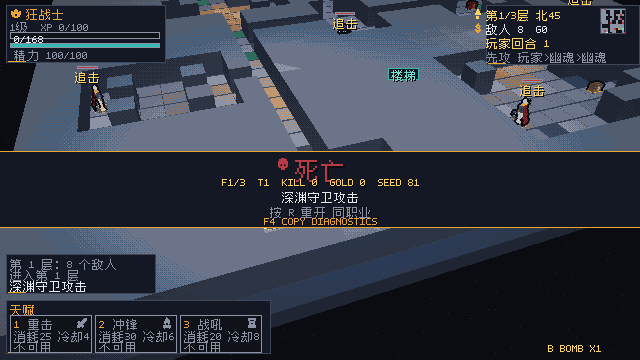
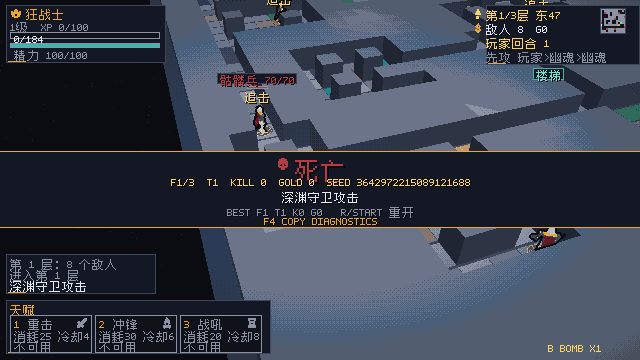
fix: gamepad restart on end screen

diff --git a/docs/DECK_CHECK.md b/docs/DECK_CHECK.md
@@ -30,6 +30,7 @@
 - [ ] 普通战斗 B 投弹；瞄准中 B 取消；面板中 B 关闭
 - [ ] 菜单/结算界面按 B 不会退出游戏
 - [ ] 暂停页 Y 打开帮助，B 关闭帮助
+- [ ] 死亡/胜利界面 Start 重开；R 仍可用
 - [ ] 角色：方向键选属性，A 加点，高亮跟随
 - [ ] 菜单高亮边框跟随选择
 - [ ] 右摇杆旋转视角
